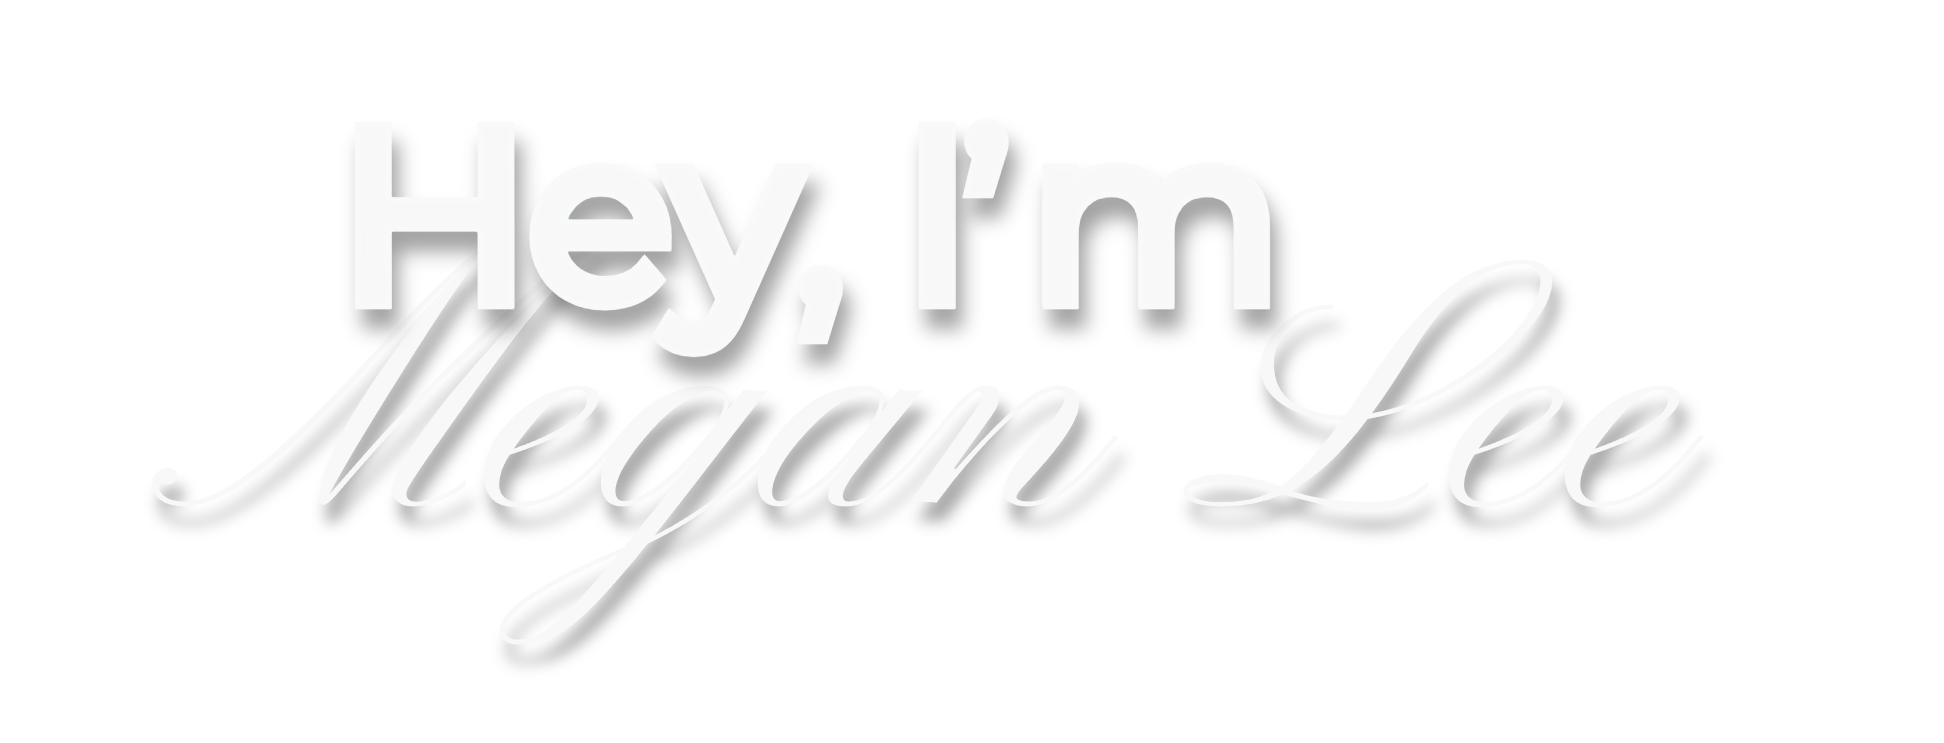
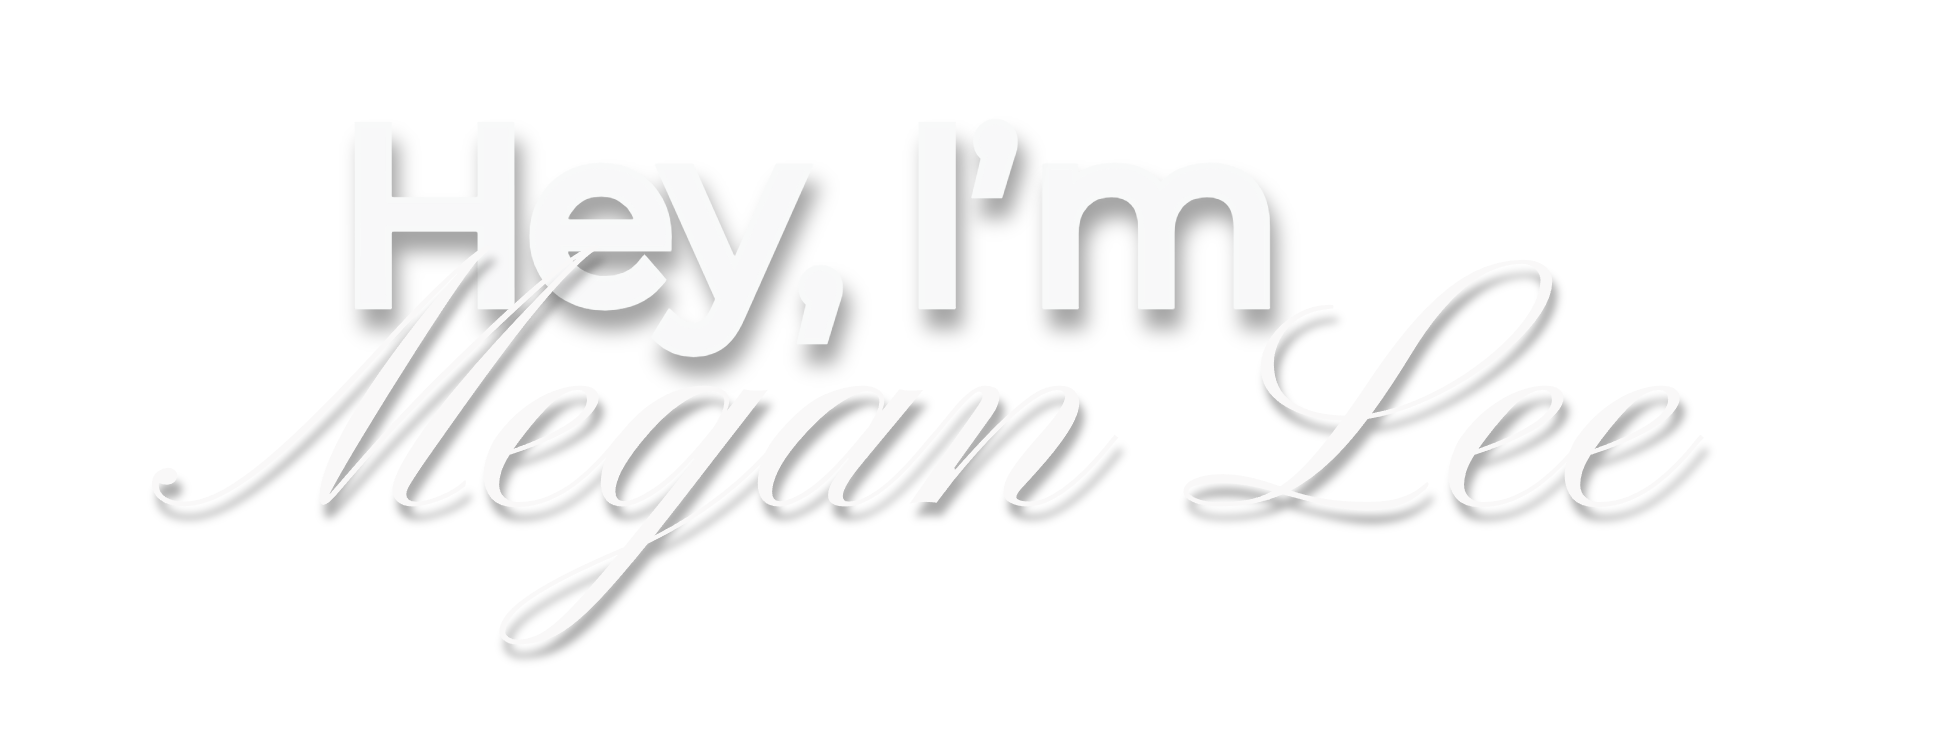
- cleanup images

diff --git a/app/components/sections/about.tsx b/app/components/sections/about.tsx
@@ -19,7 +19,7 @@ const About = () => {
       </div>
       <div className="flex justify-center min-h-screen items-center w-full md:w-1/2 py-4 pb-8 md:pb-0 z-10">
         <div className="relative w-3/5 max-w-md aspect-square rounded-full overflow-hidden shadow-lg">
-          <Image src={"/image.jpg"} draggable="false" alt="megan_lee" fill style={{ objectFit: "cover" }} />
+          <Image src={"/me.jpg"} draggable="false" alt="megan_lee" fill style={{ objectFit: "cover" }} />
         </div>
       </div>
       <div className="flex justify-center items-center py-4 w-full md:w-1/2 z-10">

diff --git a/app/components/ui/experienceCard.tsx b/app/components/ui/experienceCard.tsx
@@ -18,7 +18,7 @@ const ExperienceCard = (props: ExperienceCardProps) => {
       <div className="flex flex-col space-y-4">
         <div className="flex items-center space-x-3">
           {logoSrc && (
-            <div className="w-25 h-25 shrink-0 bg-white border border-gray-200 rounded-md overflow-hidden flex items-center justify-center">
+            <div className="w-25 h-25 shrink-0 rounded-md overflow-hidden flex items-center justify-center">
               <img src={logoSrc} className="object-contain w-full h-full p-0.5"/>
             </div>
           )}

diff --git a/app/components/sections/welcome.tsx b/app/components/sections/welcome.tsx
@@ -27,7 +27,7 @@ const Welcome = () => {
           viewport={{ once: true, amount: 0.3 }}
         >
           <Image
-            src={"/welcome_banner2.png"}
+            src={"/welcome_banner.png"}
             draggable="false"
             alt="Hey, Im Megan Lee"
             fill

diff --git a/app/components/sections/experience.tsx b/app/components/sections/experience.tsx
@@ -31,7 +31,7 @@ const ExperienceData: TimelineProps["data"] = [
         organization.
       </>
     ),
-    images: [{ src: "/Renison.jpg" }],
+    images: [{ src: "/renison.png" }],
   },
   {
     title: "2024",
